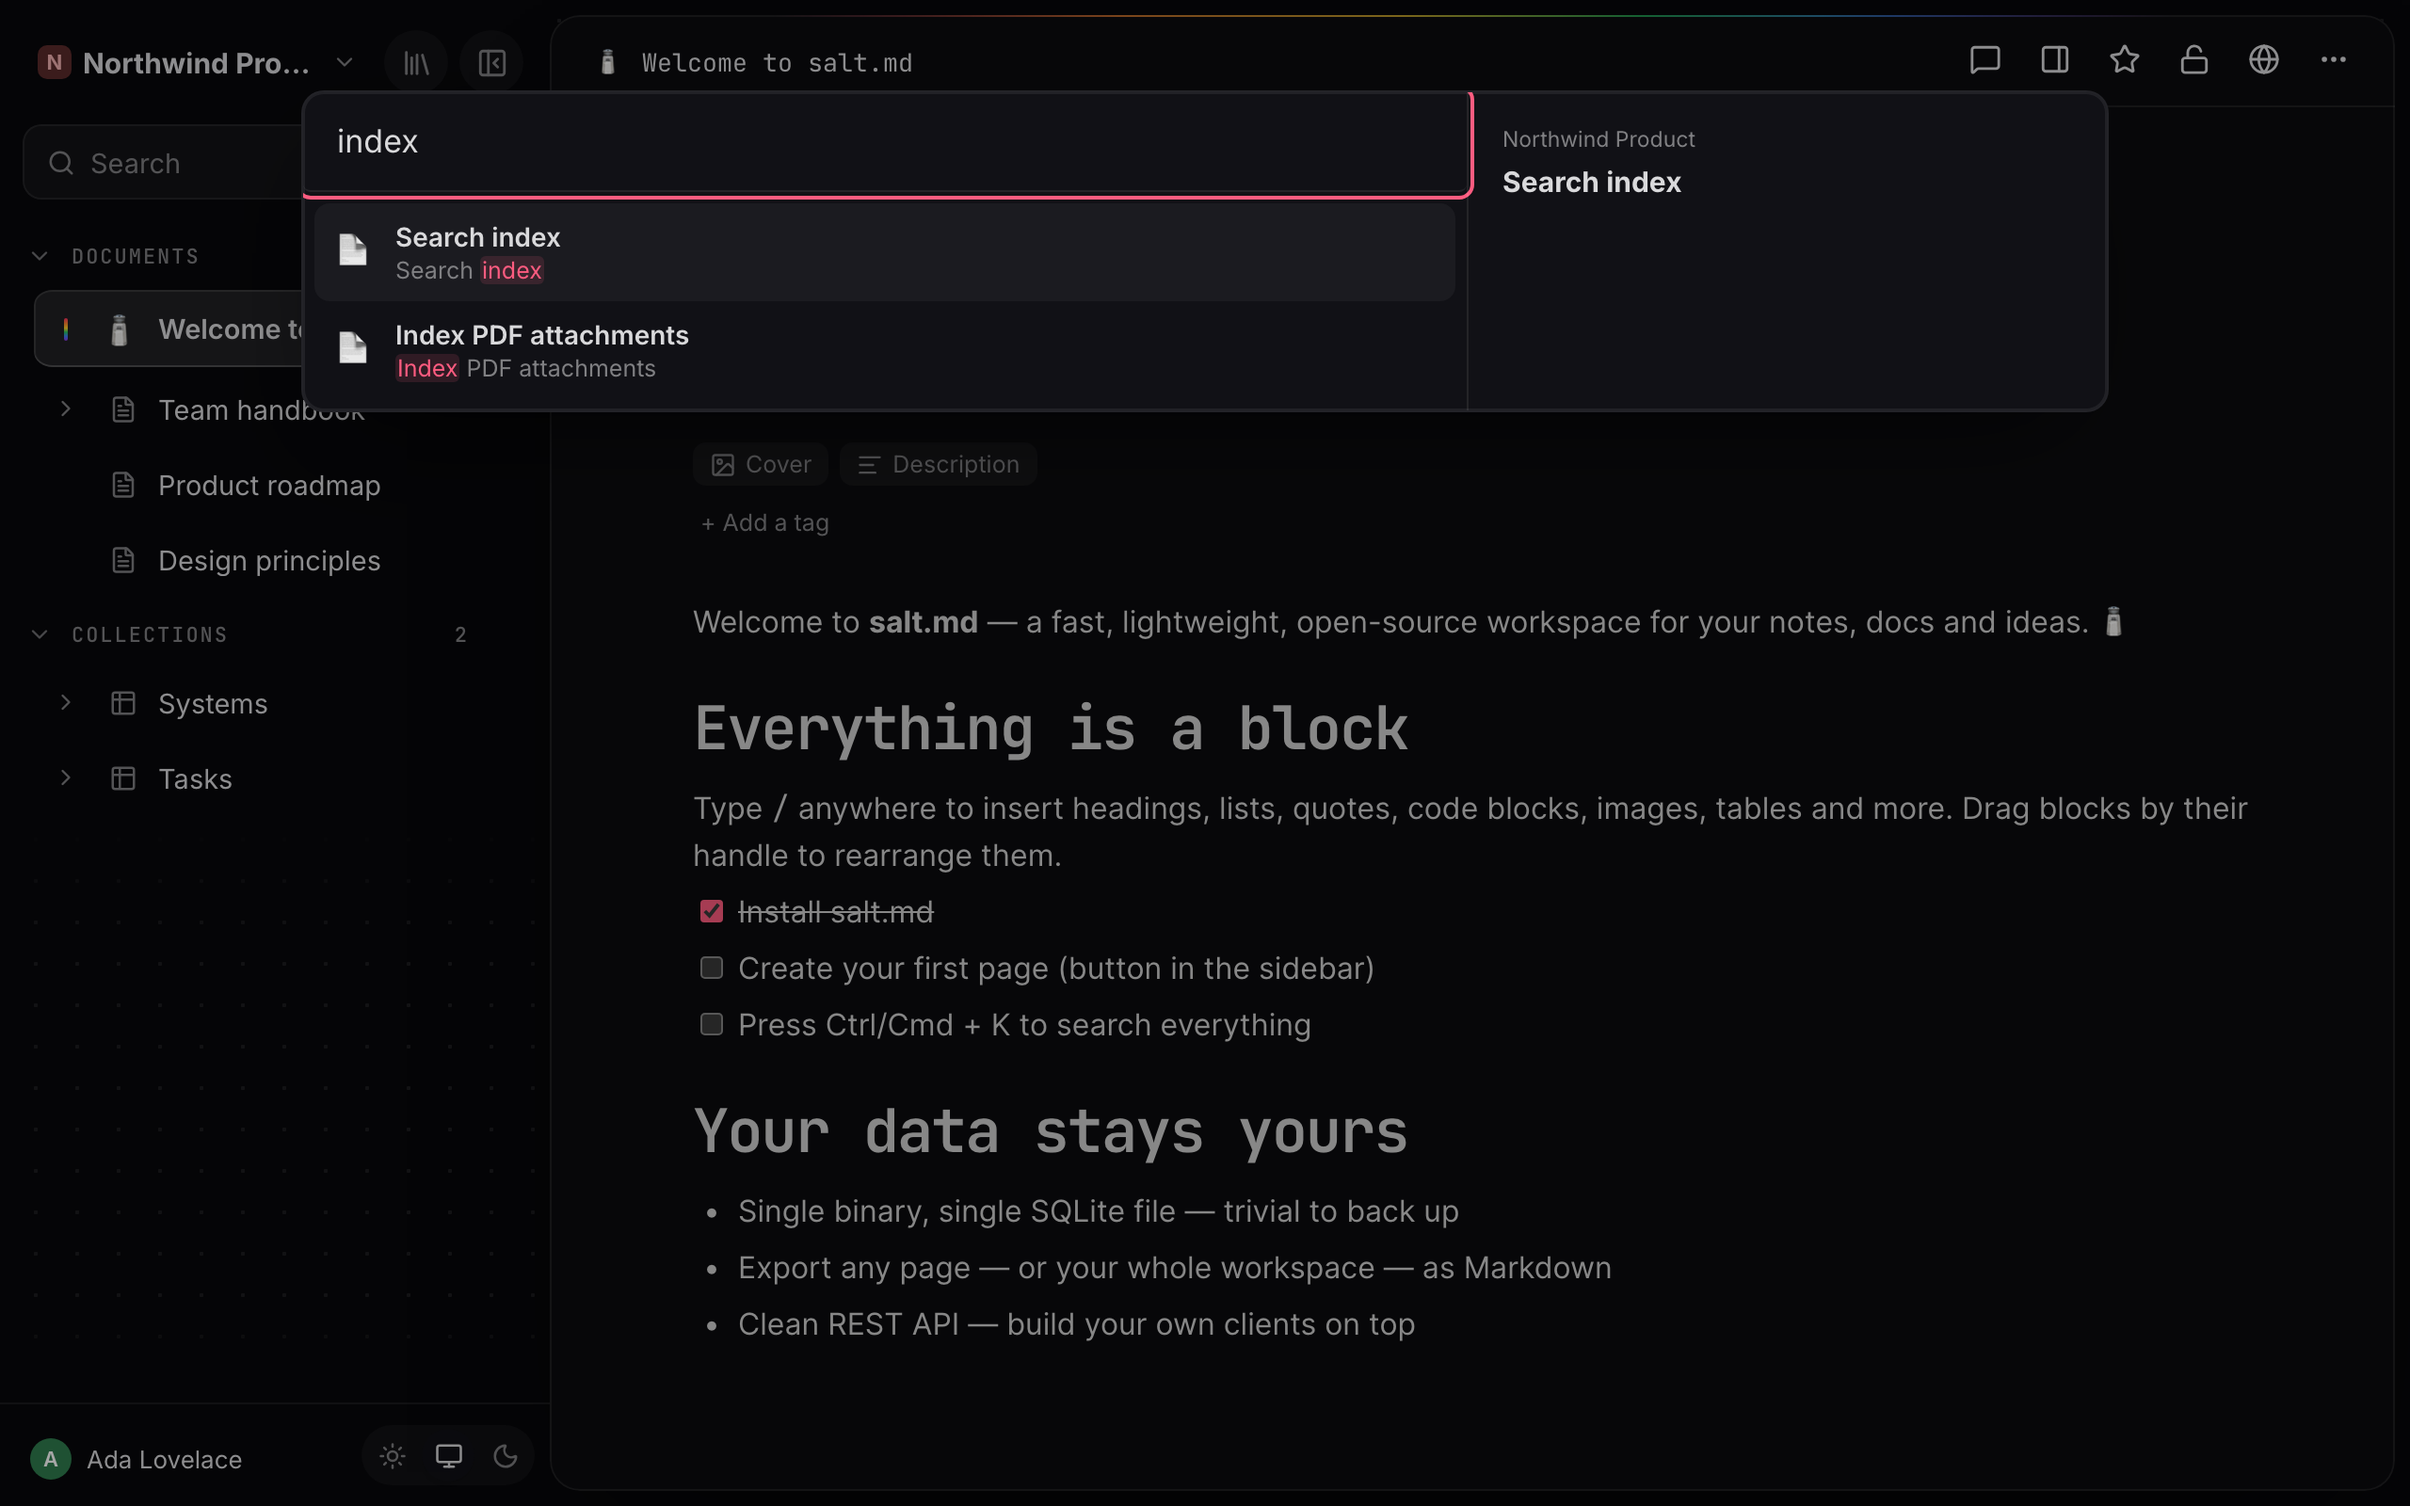
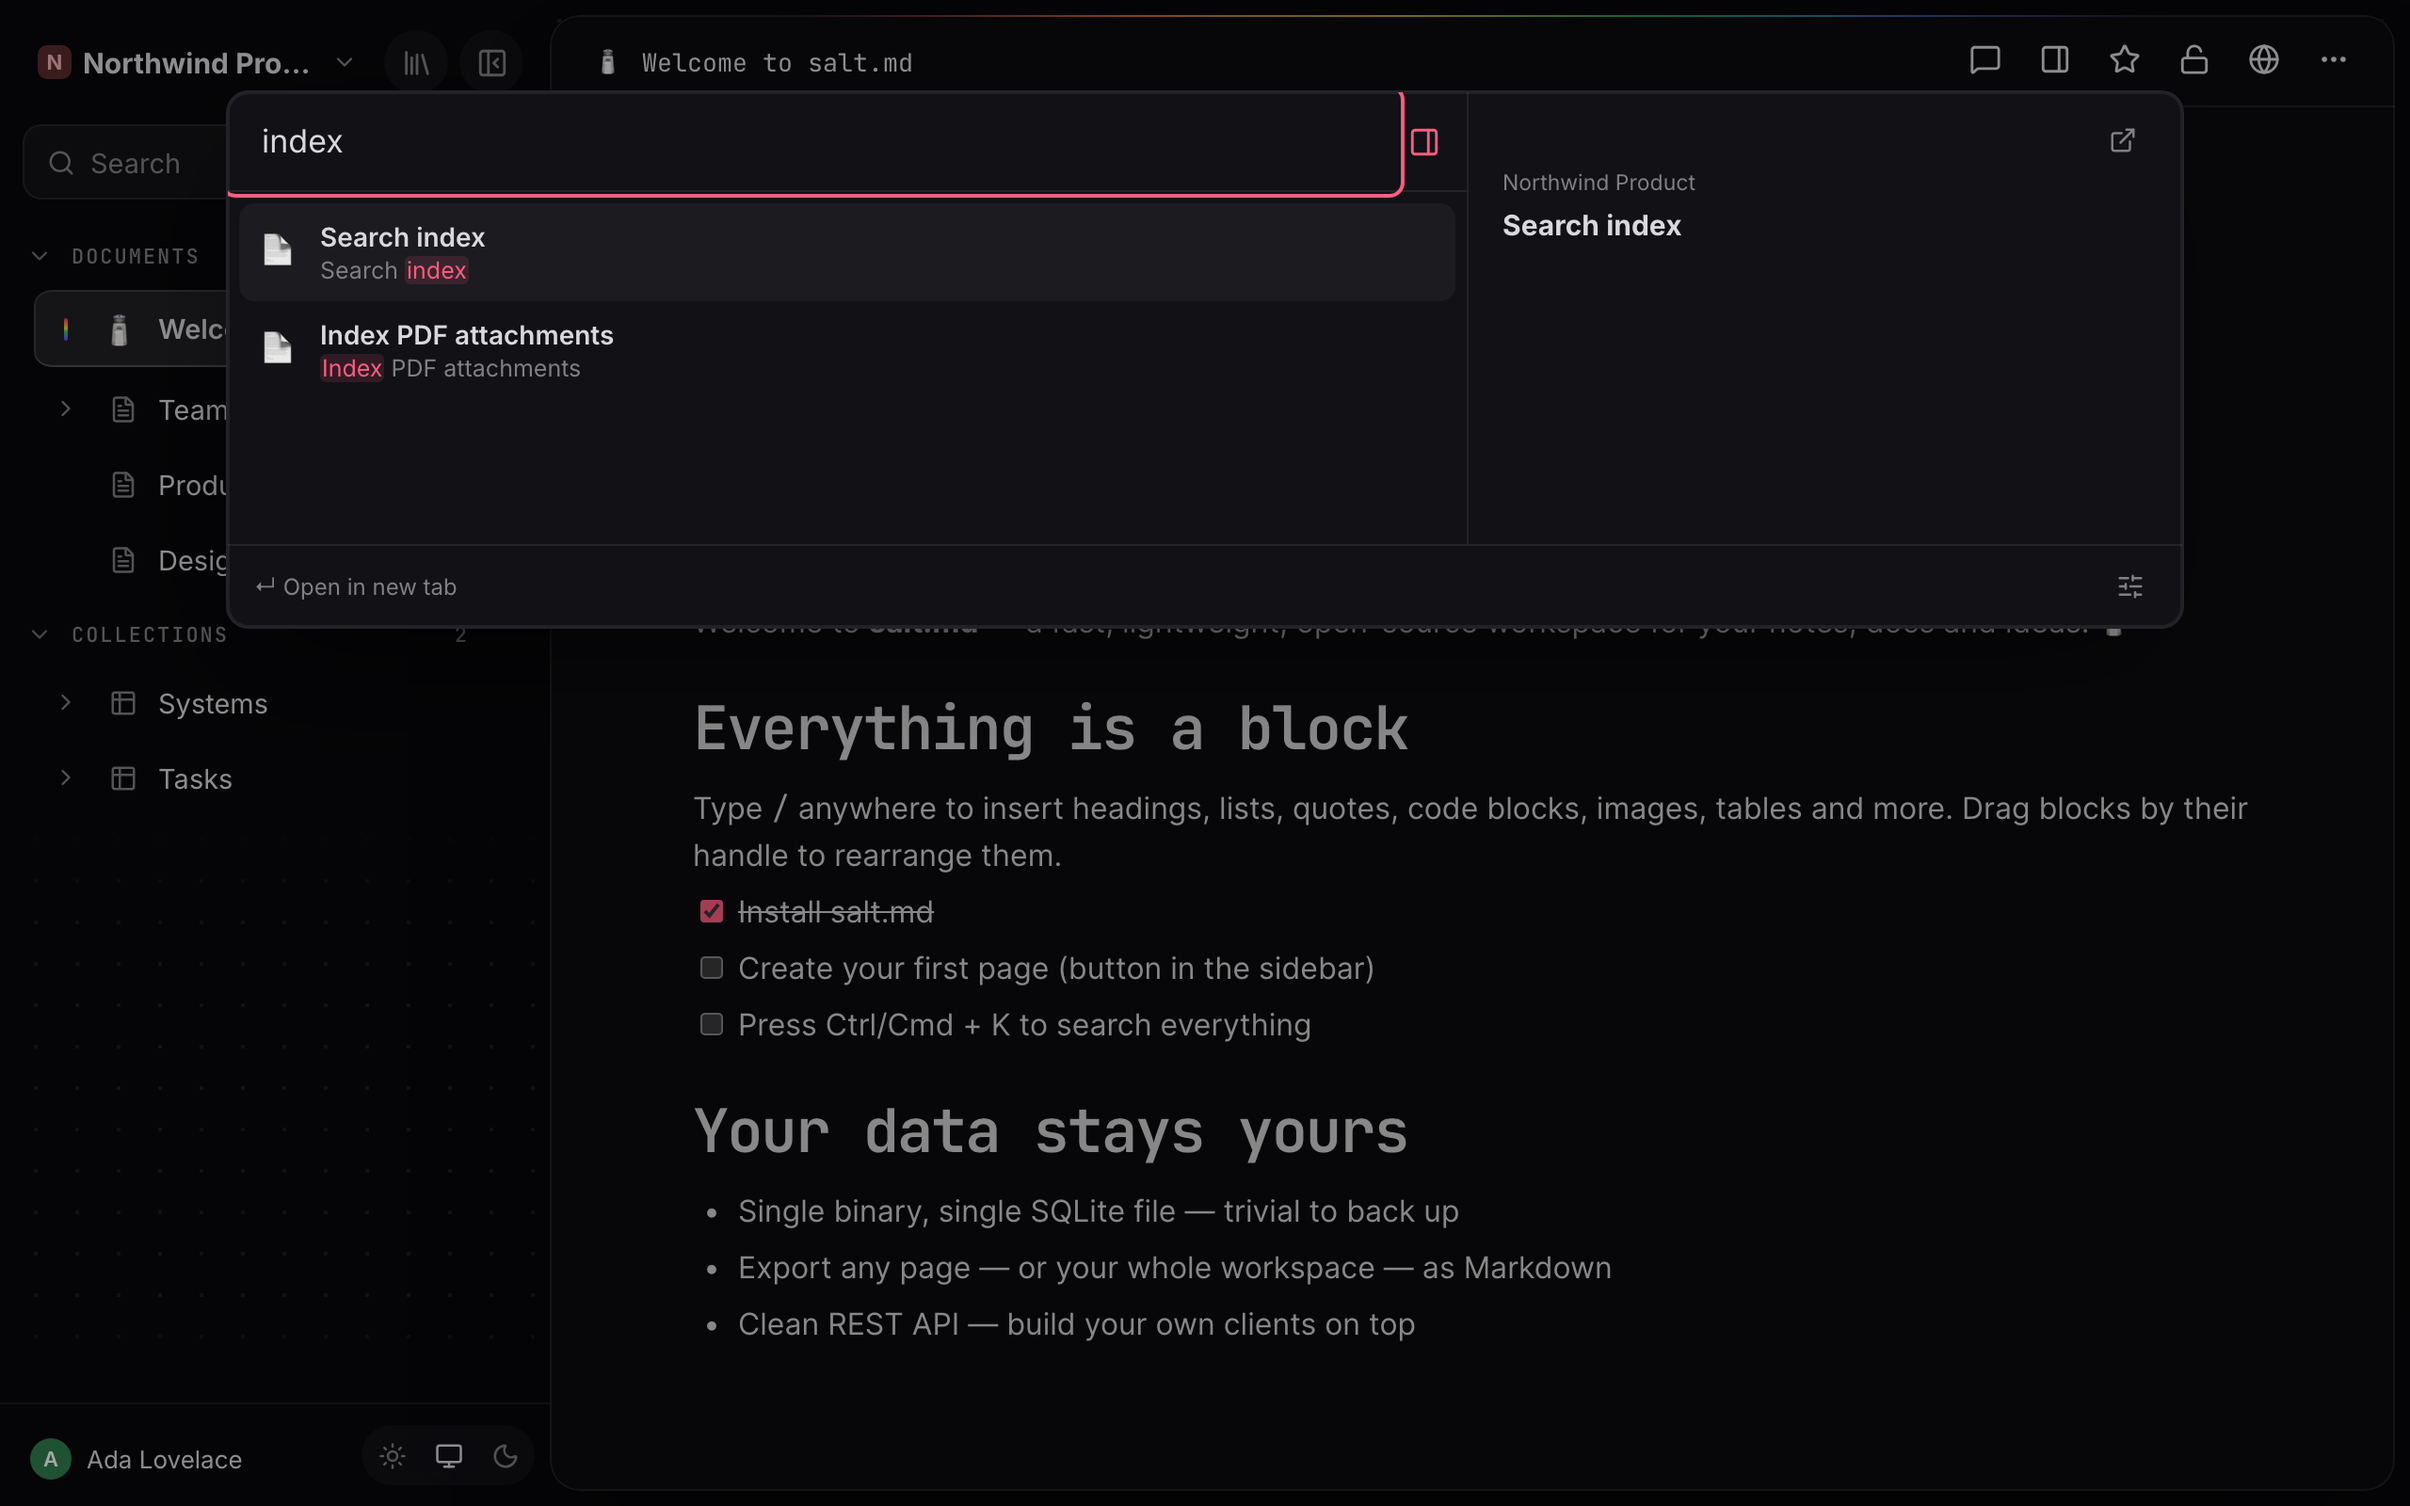
Search palette v2: always-on preview, footer with settings
- Modal is wider; preview pane always rendered (blank for commands),
  with a PanelRight toggle in the input row, remembered in localStorage.
- Preview head carries an explicit open-in-new-tab button; the body
  click keeps opening in a new tab.
- Footer bar: open-in-new-tab hint plus a settings popover with
  'Remember workspace filter' (persists the scope chips).

diff --git a/web/src/components/SearchModal.tsx b/web/src/components/SearchModal.tsx
@@ -1,4 +1,5 @@
 import { useEffect, useMemo, useRef, useState } from 'react';
+import { ExternalLink, PanelRight, SlidersHorizontal } from 'lucide-react';
 import { api } from '../api';
 import type { SearchResult } from '../types';
 import Portal from './Portal';
@@ -62,8 +63,38 @@ type NavItem =
 export default function SearchModal({ recent, workspaces, currentWs, onClose, onNavigate, onOpenInNewTab }: Props) {
   const [q, setQ] = useState('');
   const [results, setResults] = useState<SearchResult[]>([]);
+  // The preview pane: on unless explicitly hidden, remembered across sessions.
+  const [showPreview, setShowPreview] = useState(() => {
+    try {
+      return localStorage.getItem('salt-search-preview') !== '0';
+    } catch {
+      return true;
+    }
+  });
+  const [rememberWs, setRememberWs] = useState(() => {
+    try {
+      return localStorage.getItem('salt-search-remember-ws') === '1';
+    } catch {
+      return false;
+    }
+  });
   // Empty means everywhere; otherwise only the picked workspaces are searched.
-  const [picked, setPicked] = useState<string[]>(() => (currentWs ? [currentWs] : []));
+  const [picked, setPicked] = useState<string[]>(() => {
+    try {
+      if (localStorage.getItem('salt-search-remember-ws') === '1') {
+        const saved = JSON.parse(localStorage.getItem('salt-search-ws') ?? '[]') as unknown;
+        if (Array.isArray(saved)) {
+          return (saved as unknown[]).filter(
+            (x): x is string => typeof x === 'string' && workspaces.some((w) => w.id === x),
+          );
+        }
+      }
+    } catch {
+      /* corrupted cache — fall through to the default */
+    }
+    return currentWs ? [currentWs] : [];
+  });
+  const [settingsOpen, setSettingsOpen] = useState(false);
   const [sel, setSel] = useState(0);
   const [preview, setPreview] = useState<{ id: string; title: string; ws: string; text: string } | null>(null);
   const inputRef = useRef<HTMLInputElement>(null);
@@ -194,6 +225,40 @@ export default function SearchModal({ recent, workspaces, currentWs, onClose, on
     }
   };
 
+  const togglePreview = () =>
+    setShowPreview((v) => {
+      const next = !v;
+      try {
+        localStorage.setItem('salt-search-preview', next ? '1' : '0');
+      } catch {
+        /* private mode — the pane still toggles for this session */
+      }
+      return next;
+    });
+
+  const toggleRememberWs = () =>
+    setRememberWs((v) => {
+      const next = !v;
+      try {
+        localStorage.setItem('salt-search-remember-ws', next ? '1' : '0');
+        if (next) localStorage.setItem('salt-search-ws', JSON.stringify(picked));
+        else localStorage.removeItem('salt-search-ws');
+      } catch {
+        /* private mode — the choice still applies for this session */
+      }
+      return next;
+    });
+
+  // The remembered scope follows the picks while remembering is on.
+  useEffect(() => {
+    if (!rememberWs) return;
+    try {
+      localStorage.setItem('salt-search-ws', JSON.stringify(picked));
+    } catch {
+      /* private mode */
+    }
+  }, [picked, rememberWs]);
+
   const toggleWs = (id: string) =>
     setPicked((prev) => (prev.includes(id) ? prev.filter((w) => w !== id) : [...prev, id]));
 
@@ -208,15 +273,27 @@ export default function SearchModal({ recent, workspaces, currentWs, onClose, on
         if (e.target === e.currentTarget) onClose();
       }}
     >
-      <div className={'search-modal' + (previewId ? ' has-preview' : '')} onKeyDown={onKey}>
+      <div className={'search-modal' + (showPreview ? ' has-preview' : '')} onKeyDown={onKey}>
+        <div className="search-body">
         <div className="search-main">
-          <input
-            ref={inputRef}
-            className="search-input"
-            placeholder={t('Search all pages…')}
-            value={q}
-            onChange={(e) => setQ(e.target.value)}
-          />
+          <div className="search-topbar">
+            <input
+              ref={inputRef}
+              className="search-input"
+              placeholder={t('Search all pages…')}
+              value={q}
+              onChange={(e) => setQ(e.target.value)}
+            />
+            <button
+              type="button"
+              className={'search-icon-btn' + (showPreview ? ' is-on' : '')}
+              onClick={togglePreview}
+              title={t('Preview')}
+              aria-label={t('Preview')}
+            >
+              <PanelRight size={17} />
+            </button>
+          </div>
           {workspaces.length > 1 && (
             <div className="search-scopes" role="group" aria-label={t('Workspaces')}>
               <button
@@ -318,19 +395,57 @@ export default function SearchModal({ recent, workspaces, currentWs, onClose, on
             )}
           </div>
         </div>
-        {previewId && (
-          <div
-            className="search-preview"
-            onClick={() => (onOpenInNewTab ?? onNavigate)(previewId)}
-            title={t('Open in new tab')}
-            role="button"
-            tabIndex={-1}
-          >
-            <div className="search-preview-ws">{preview?.ws ?? ''}</div>
-            <div className="search-preview-title">{preview?.title || t('Untitled')}</div>
-            {preview?.text && <div className="search-preview-text">{preview.text}</div>}
+        {showPreview && (
+          <div className="search-preview">
+            <div className="search-preview-head">
+              <button
+                type="button"
+                className="search-icon-btn"
+                onClick={(e) => {
+                  e.stopPropagation();
+                  if (previewId) (onOpenInNewTab ?? onNavigate)(previewId);
+                }}
+                disabled={!previewId}
+                title={t('Open in new tab')}
+                aria-label={t('Open in new tab')}
+              >
+                <ExternalLink size={15} />
+              </button>
+            </div>
+            <div
+              className="search-preview-body"
+              onClick={() => previewId && (onOpenInNewTab ?? onNavigate)(previewId)}
+              title={previewId ? t('Open in new tab') : undefined}
+              role={previewId ? 'button' : undefined}
+              tabIndex={-1}
+            >
+              <div className="search-preview-ws">{preview?.ws ?? ''}</div>
+              <div className="search-preview-title">{preview?.title || (previewId ? t('Untitled') : '')}</div>
+              {preview?.text && <div className="search-preview-text">{preview.text}</div>}
+            </div>
           </div>
         )}
+        </div>
+      <div className="search-footer">
+        <span className="search-footer-hint">↵ {t('Open in new tab')}</span>
+        <div className="search-settings">
+          {settingsOpen && (
+            <label className="search-settings-pop">
+              <input type="checkbox" checked={rememberWs} onChange={toggleRememberWs} />
+              {t('Remember workspace filter')}
+            </label>
+          )}
+          <button
+            type="button"
+            className={'search-icon-btn' + (settingsOpen ? ' is-on' : '')}
+            onClick={() => setSettingsOpen((v) => !v)}
+            title={t('Search settings')}
+            aria-label={t('Search settings')}
+          >
+            <SlidersHorizontal size={15} />
+          </button>
+        </div>
+      </div>
       </div>
     </div>
     </Portal>

diff --git a/web/src/styles.css b/web/src/styles.css
@@ -1674,12 +1674,33 @@ body:has(.icon-picker) .bn-side-menu {
 }
 
 .search-modal {
-  width: min(600px, 92vw);
+  width: min(720px, 94vw);
   background: var(--card);
   border: 1px solid var(--border);
   border-radius: 12px;
   box-shadow: var(--shadow);
   overflow: hidden;
+}
+
+.search-modal.has-preview {
+  width: min(1040px, 96vw);
+}
+
+.search-body {
+  display: flex;
+}
+
+.search-topbar {
+  display: flex;
+  align-items: center;
+  border-bottom: 1px solid var(--border);
+  padding-right: 8px;
+}
+
+.search-topbar .search-input {
+  flex: 1;
+  width: auto;
+  border-bottom: none;
 }
 
 .search-input {
@@ -1692,6 +1713,63 @@ body:has(.icon-picker) .bn-side-menu {
   padding: 16px 18px;
   font-family: inherit;
   border-bottom: 1px solid var(--border);
+}
+
+.search-icon-btn {
+  display: inline-flex;
+  padding: 6px;
+  border-radius: 6px;
+  color: var(--muted);
+}
+
+.search-icon-btn:hover {
+  background: var(--hover);
+  color: var(--fg);
+}
+
+.search-icon-btn.is-on {
+  color: var(--accent);
+}
+
+.search-icon-btn:disabled {
+  opacity: 0.35;
+  pointer-events: none;
+}
+
+.search-footer {
+  display: flex;
+  align-items: center;
+  justify-content: space-between;
+  padding: 8px 14px;
+  border-top: 1px solid var(--border);
+}
+
+.search-footer-hint {
+  font-size: 12px;
+  color: var(--muted);
+}
+
+.search-settings {
+  position: relative;
+  display: flex;
+  align-items: center;
+}
+
+.search-settings-pop {
+  position: absolute;
+  right: 0;
+  bottom: calc(100% + 8px);
+  display: flex;
+  align-items: center;
+  gap: 8px;
+  background: var(--card);
+  border: 1px solid var(--border);
+  border-radius: 8px;
+  box-shadow: var(--shadow);
+  padding: 8px 12px;
+  font-size: 13px;
+  white-space: nowrap;
+  cursor: pointer;
 }
 
 .search-results {
@@ -1795,29 +1873,30 @@ body:has(.icon-picker) .bn-side-menu {
 }
 
 /* Read-only preview beside the results, Notion-style: small type, and the
-   whole pane opens the page in a new tab rather than editing in place. */
-.search-modal.has-preview {
-  width: min(960px, 94vw);
-  display: flex;
-}
-
+   page opens in a new tab rather than editing in place. */
 .search-main {
   flex: 1;
   min-width: 0;
 }
 
 .search-preview {
-  width: 340px;
+  width: 380px;
   flex-shrink: 0;
   border-left: 1px solid var(--border);
-  padding: 18px;
+  padding: 12px 18px 18px;
   overflow-y: auto;
   max-height: 60vh;
-  cursor: pointer;
+  min-height: 240px;
 }
 
-.search-preview:hover .search-preview-title {
-  text-decoration: underline;
+.search-preview-head {
+  display: flex;
+  justify-content: flex-end;
+  margin-bottom: 2px;
+}
+
+.search-preview-body {
+  cursor: pointer;
 }
 
 .search-preview-ws {
